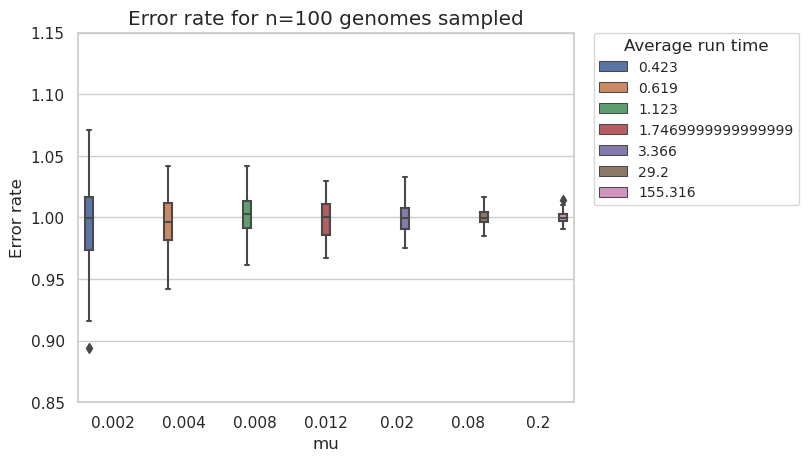
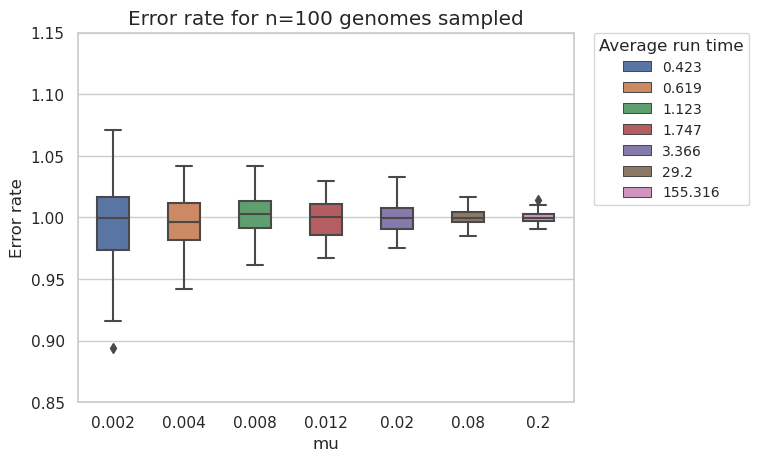
graphic

diff --git a/sei/graphics/plot.py b/sei/graphics/plot.py
@@ -9,6 +9,8 @@ import seaborn as sns
 import pandas as pd
 from matplotlib.lines import Line2D
 
+import sei.files.files as f
+
 
 def normalization(data):
     """
@@ -154,11 +156,17 @@ def plot_error_rate(sample):
     """
     # Read a csv file into a pandas DataFrame
     data = pd.read_csv("./Data/Error_rate/error-rate-{}.csv".format(sample), sep='\t')
-    print(data.loc[[310]])
+
+    # Round value in execution time - some values not round for an unexpected reason
+    tmp = pd.DataFrame(
+        {"Execution time": [round(ele, 3) for ele in data['Execution time'].to_list()]}
+    )
+    data.update(tmp)
 
     # Plot
     sns.set_theme(style="whitegrid")
-    ax = sns.boxplot(x="mu", y="Error rate", hue="Execution time", data=data)
+    ax = sns.boxplot(x="mu", y="Error rate", hue="Execution time", data=data,
+                     width=0.45, dodge=False)
 
     # Set yaxis range
     ax.set(ylim=(0.85, 1.15))
@@ -171,6 +179,12 @@ def plot_error_rate(sample):
     plt.title("Error rate for n={} genomes sampled".format(sample), fontsize="large")
     plt.savefig("./Figures/Error_rate/error-rate-{}".format(sample), bbox_inches="tight")
     plt.clf()
+
+
+def plot_sfs_from_dadi(sample, path="./Data/", name="SFS"):
+    # Export SFS into list
+    data = f.export_sfs(path, name)
+    # print(data)
 
 
 ######################################################################

diff --git a/sei/files/files.py b/sei/files/files.py
@@ -41,5 +41,14 @@ def dadi_data(sfs, fichier, path="./Data/", name="SFS"):
                 filout.write("0 ")
 
 
+def export_sfs(path, name):
+    """
+    Export SFS file in the format compatible with the dadi software into list.
+    """
+    with open("{}{}.fs".format(path, name), "r") as filin:
+        lines = filin.readlines()
+    return [int(ele) for ele in lines[1].strip().split(' ') if ele != "0"]
+
+
 if __name__ == "__main__":
     sys.exit()  # No actions desired

diff --git a/sei/sei.py b/sei/sei.py
@@ -421,6 +421,7 @@ def main():
     elif args.analyse == 'er':
         for sample in [10, 20, 40, 60, 100]:
             plot.plot_error_rate(sample)
+            plot.plot_sfs_from_dadi(sample, name="SFS-{}".format(sample))
 
 
 if __name__ == "__main__":
